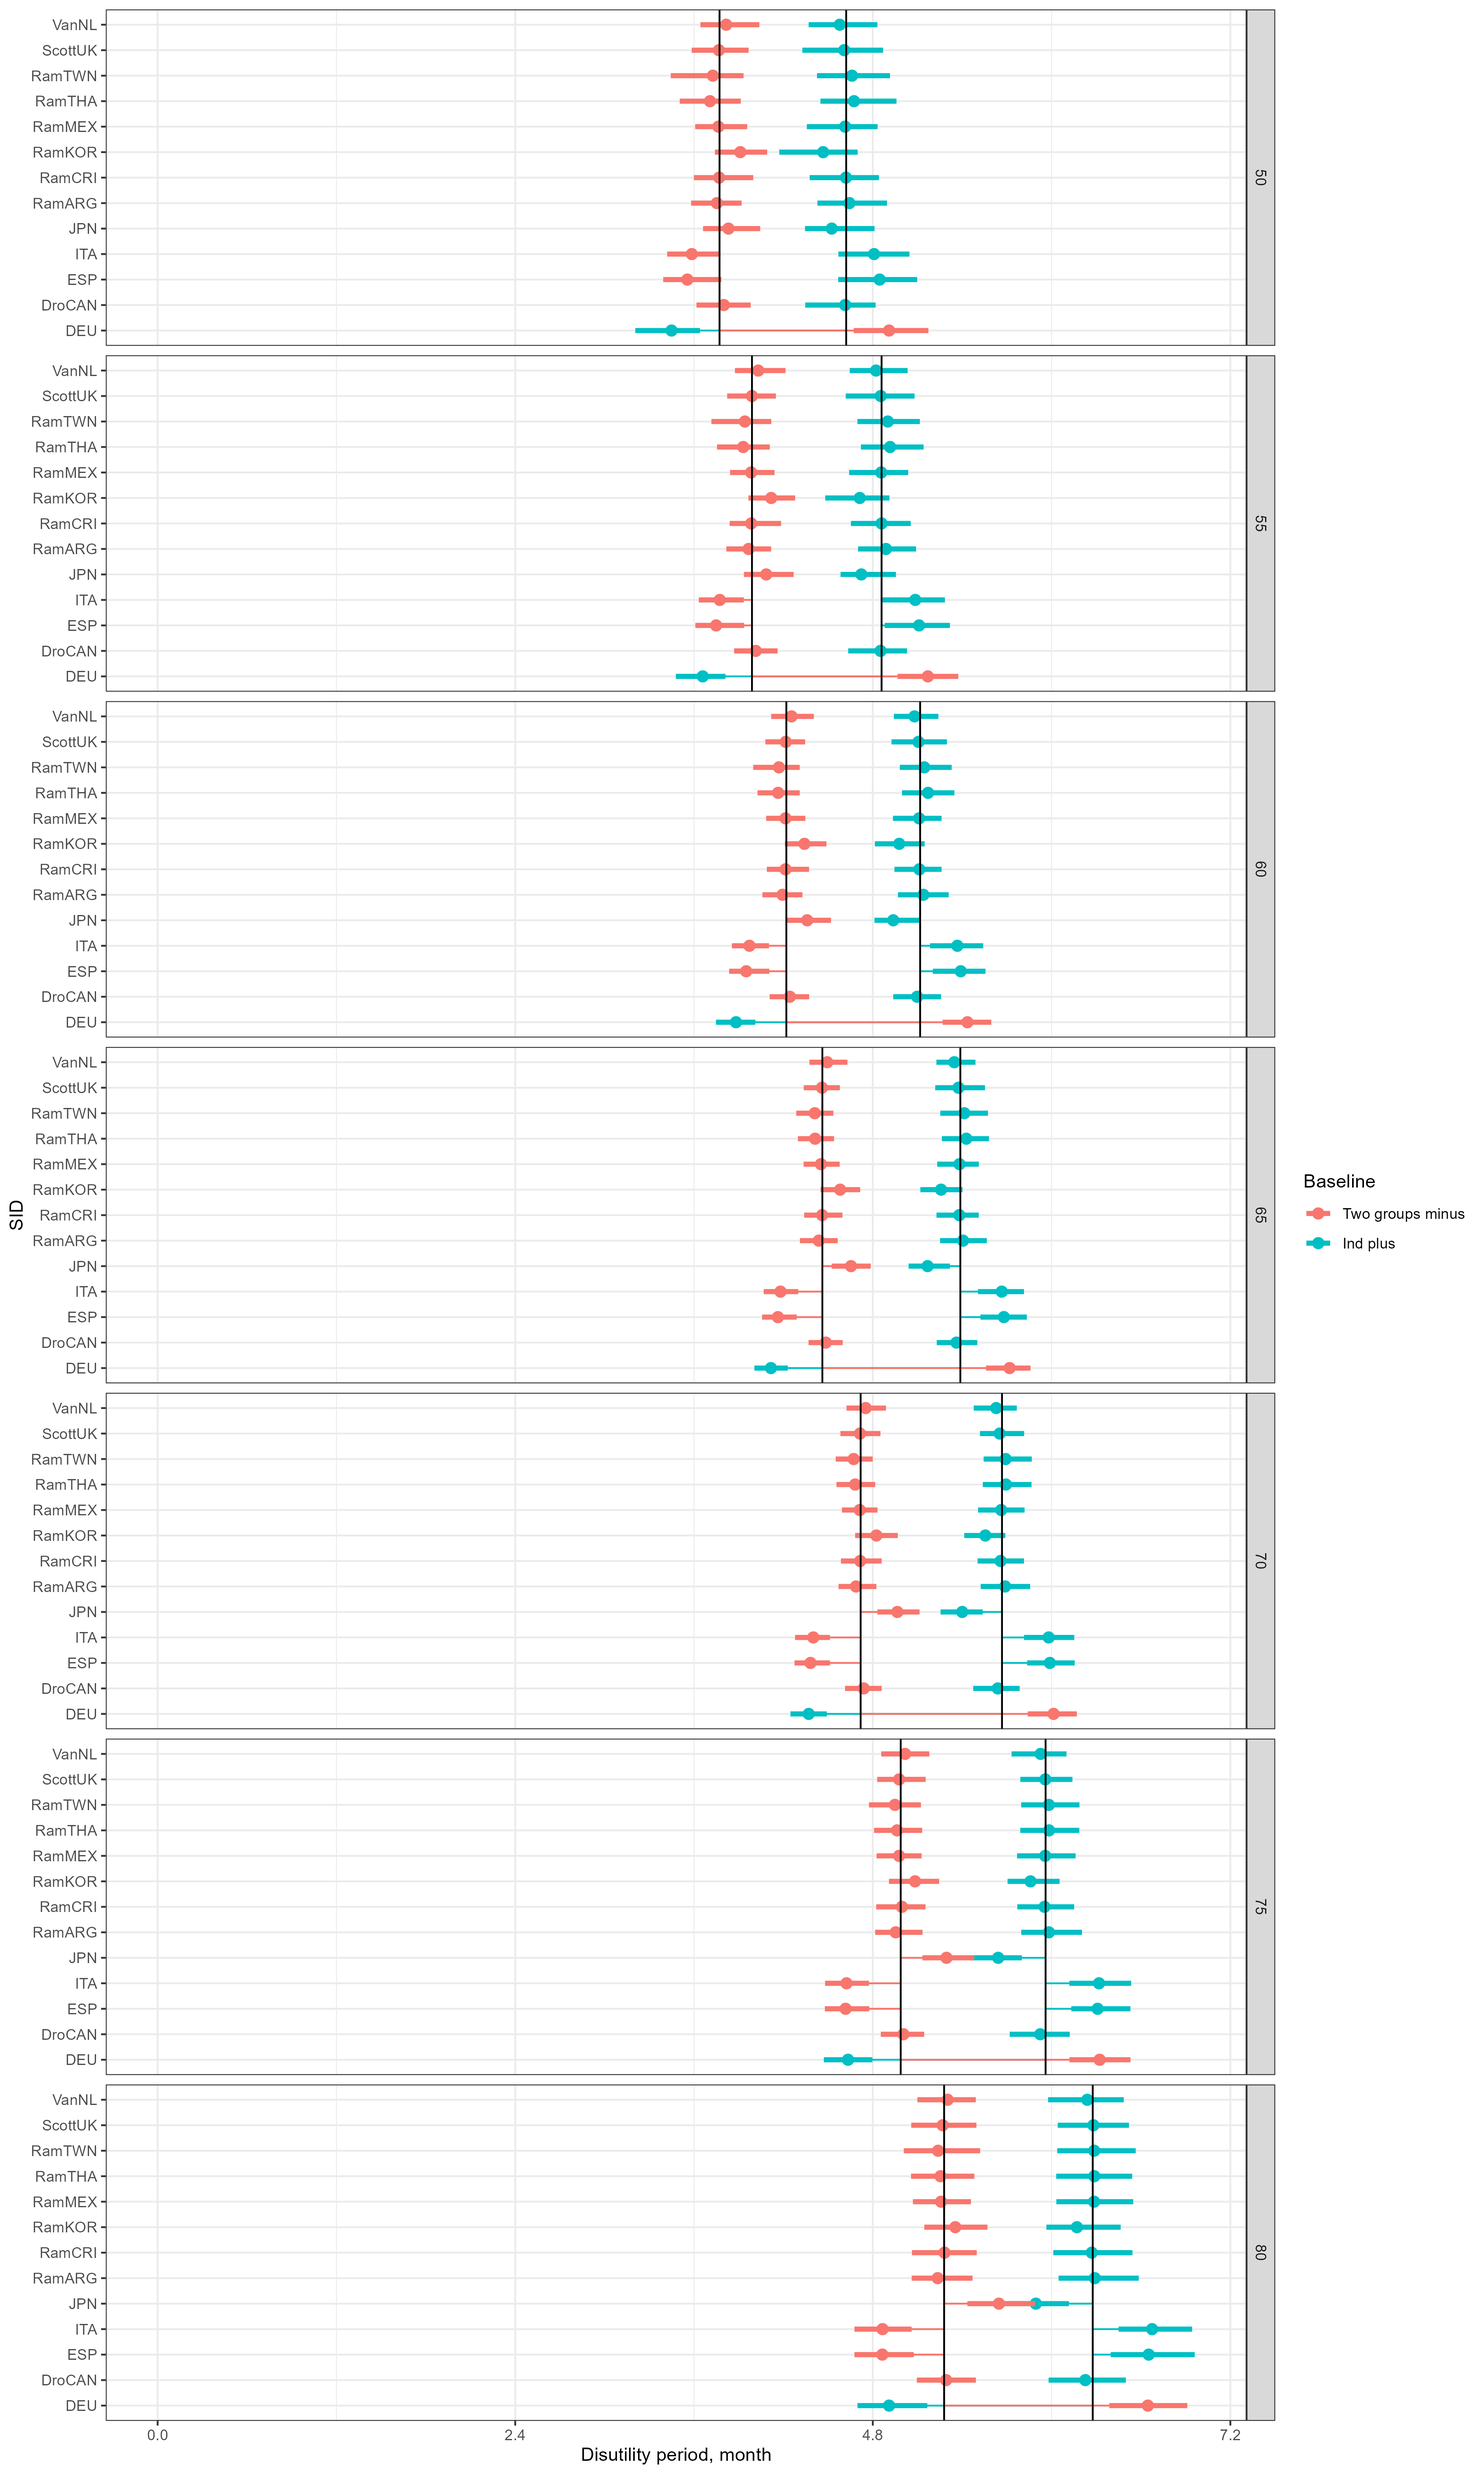
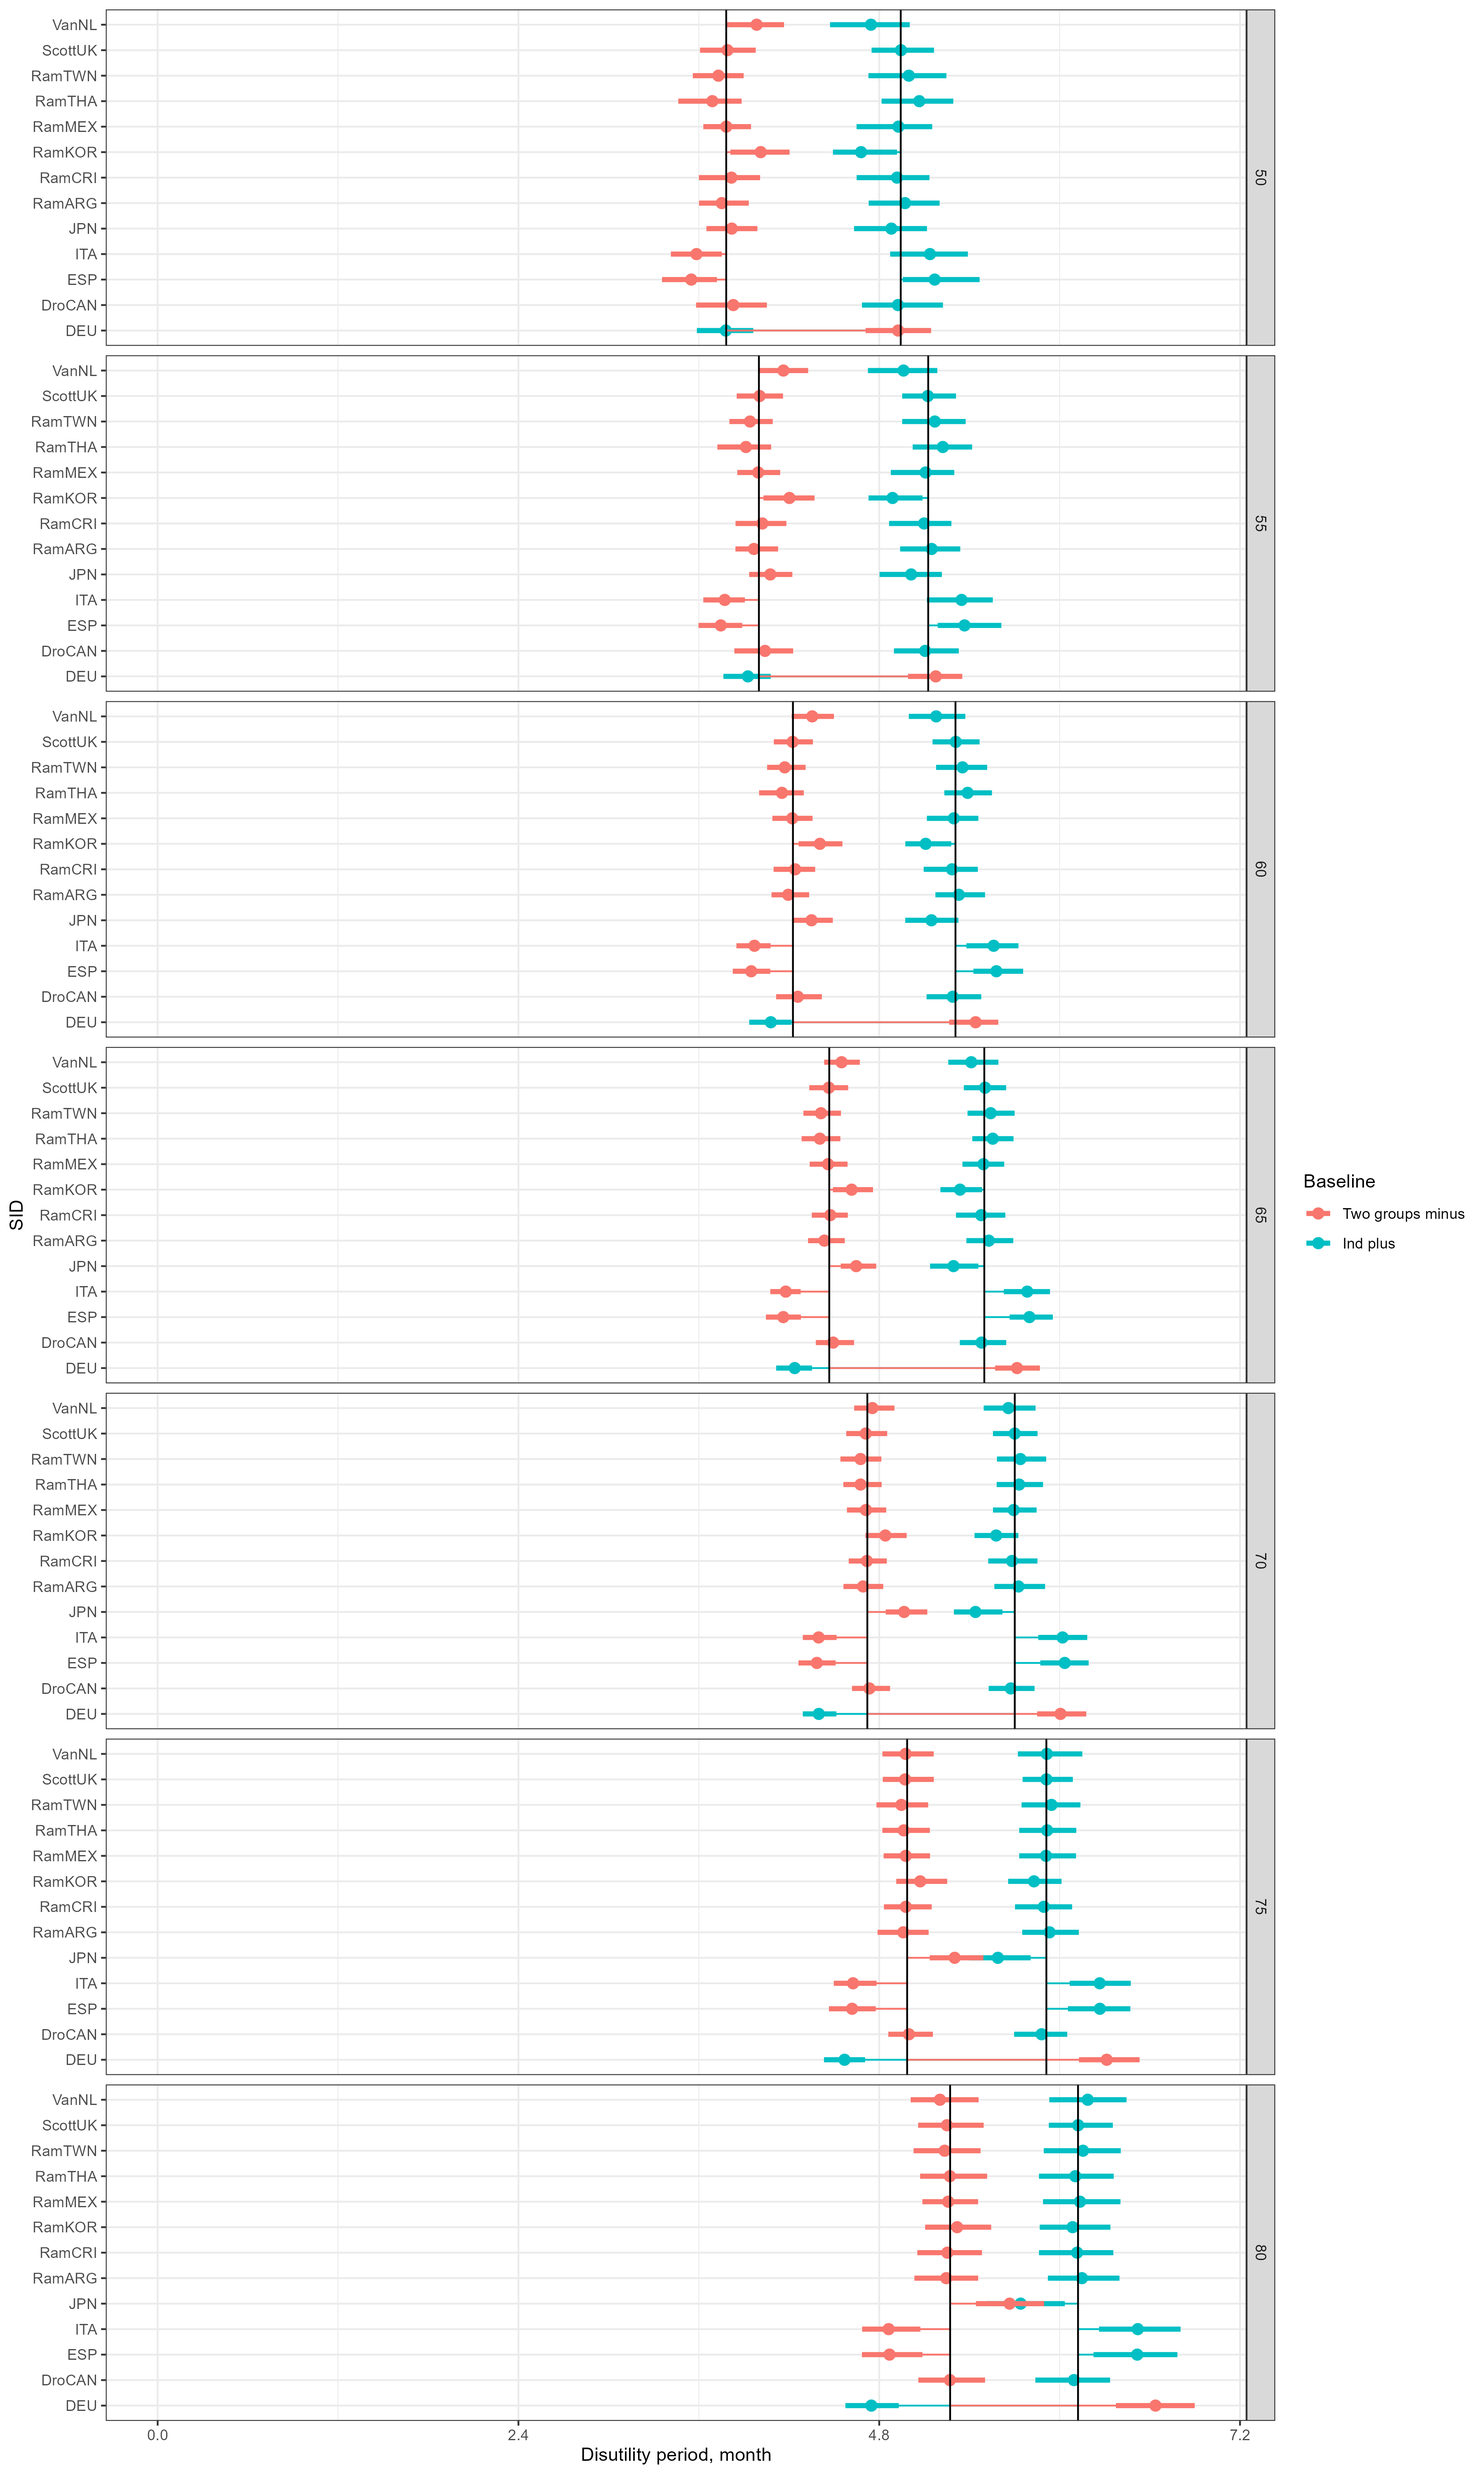
formalise gen analysis

diff --git a/todos.md b/todos.md
@@ -1,0 +1,22 @@
+## Todos
+
+#### Data description
+
+-   [ ] Summary table
+-   [ ] Raw QoL calculations
+
+#### First round modelling
+
+-   [ ] Projections, Set 1
+-   [ ] Projections, Set 2
+-   [ ] Comparison
+
+#### Generative approach, methods
+
+-   [ ] Sample size requirements
+-   [x] Validity test
+
+#### Generative approach, results
+
+- [ ] Combined projections
+
